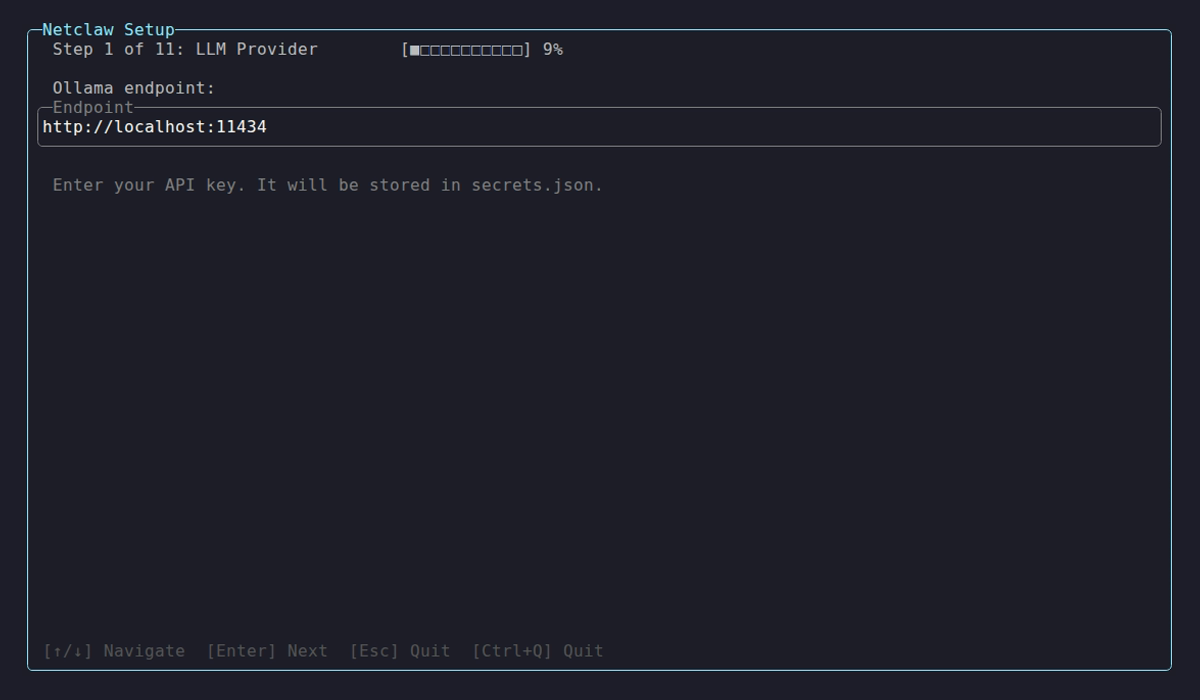
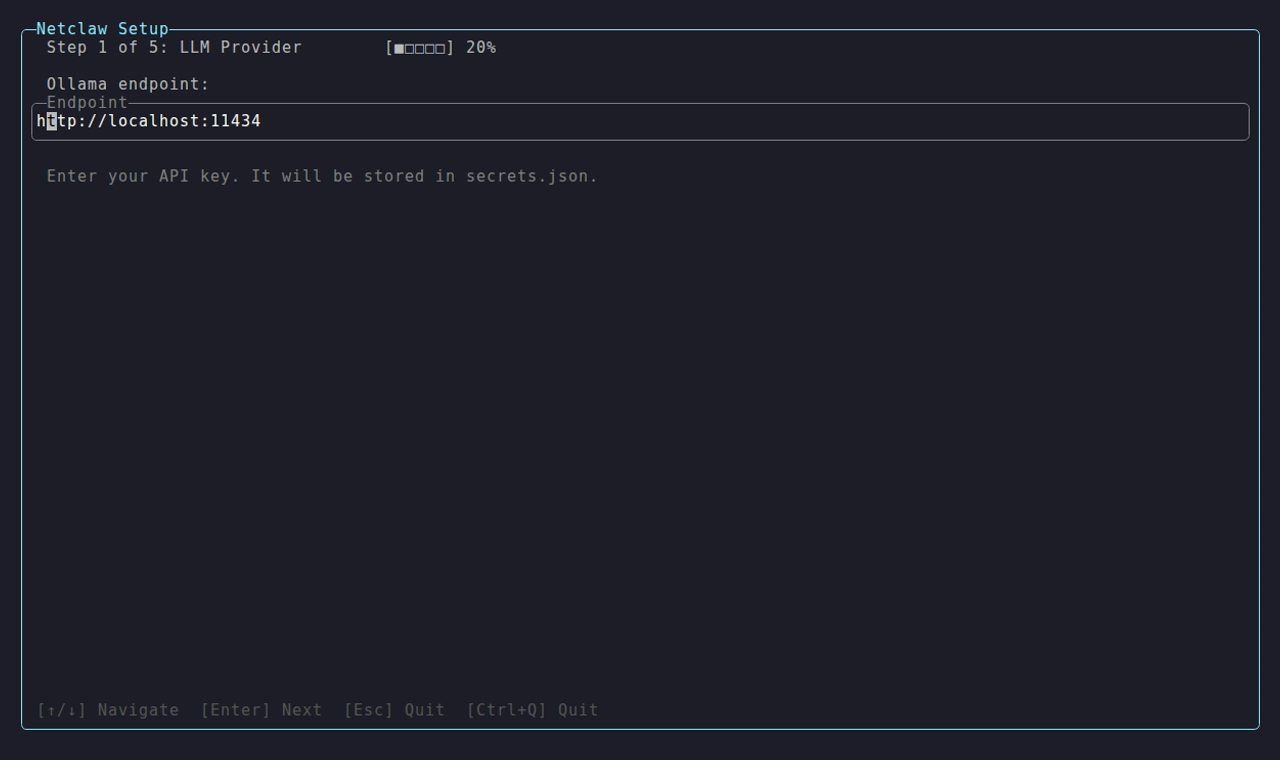
docs: capture netclaw 0.24.0 init + config screenshots
Re-capture the init wizard (5-step flow) and the netclaw config Settings Areas
dashboard against the released 0.24.0 binary in a throwaway Docker container,
replacing the stale 11-step captures. Wire the new shots into cli/init.md,
quickstart.md, and cli/config.md, and delete 26 obsolete init-* images.

Capturing against the real binary surfaced a doc fix: the provider list ships
seven entries (Anthropic, GitHub Copilot, Ollama, OpenAI, llama.cpp / vLLM,
OpenRouter, Venice.ai), not the six the dev-branch source listed.

Changed region(s): [[0.0, 0.03, 0.9867, 0.96]]

diff --git a/src/content/docs/cli/init.md b/src/content/docs/cli/init.md
@@ -28,11 +28,9 @@ Pick an LLM provider, enter credentials, and select a default model.
 
 ![Provider selection list](/screenshots/output/init-01-provider-list.png)
 
-Providers are listed alphabetically: `anthropic`, `github-copilot`, `ollama`, `openai`, `openai-compatible`, `openrouter`. Self-hosted providers (Ollama, openai-compatible) prompt for an endpoint URL next.
+Providers are listed alphabetically: Anthropic, GitHub Copilot, Ollama, OpenAI, llama.cpp / vLLM, OpenRouter, and Venice.ai. Self-hosted backends (Ollama, llama.cpp / vLLM) prompt for an endpoint URL next.
 
 ![Endpoint configuration](/screenshots/output/init-01-endpoint.png)
-
-![Ollama provider configuration](/screenshots/output/init-01-provider-ollama.png)
 
 After credentials pass a connectivity check, you pick a default model from the discovered list.
 
@@ -51,7 +49,7 @@ Four substeps in order: **agent name → communication style → your name → t
 | Your name | `Your name:` | Optional — used to personalize responses |
 | Timezone | `Your timezone:` | Defaults to local system timezone |
 
-<!-- TODO(screenshots): init-identity-agent-name.png — capture after release; epic #55 -->
+![Identity step — communication style](/screenshots/output/init-02-identity.png)
 
 :::note
 Webhook URLs and workspace directories are **not** collected here — they're post-install settings in `netclaw config`.
@@ -84,17 +82,15 @@ Six toggles that control what's available across all audiences:
 
 Space to toggle, Enter to continue. Personal posture skips this step entirely — all features are on by default.
 
-<!-- TODO(screenshots): init-enabled-features.png — capture after release; epic #55 -->
+![Feature selection on Team posture](/screenshots/output/init-04-enabled-features.png)
 
 ### Step 5 — Health Check
 
 Press Enter to run the health checks. The wizard validates config files, tests provider connectivity, and starts the daemon.
 
-![Health check running](/screenshots/output/init-10-health-check.png)
+![Health check running](/screenshots/output/init-05-health-check.png)
 
 On a clean pass — all probes green — the wizard writes config and launches `netclaw chat` automatically. No extra confirmation needed.
-
-![Health check complete](/screenshots/output/init-10-health-check-complete.png)
 
 If any check fails, the wizard stays on the summary screen and shows:
 

diff --git a/src/content/docs/getting-started/quickstart.md b/src/content/docs/getting-started/quickstart.md
@@ -23,8 +23,9 @@ The wizard covers four steps for Personal posture (five for Team/Public — more
 
 ### Pick a provider
 
-<!-- TODO(screenshots): init-step1-provider-endpoint.png — capture after release; epic #55 -->
-<!-- TODO(screenshots): init-step1-provider-model.png — capture after release; epic #55 -->
+![Provider selection](/screenshots/output/init-01-provider-list.png)
+
+![Model selection](/screenshots/output/init-01-model-select.png)
 
 Choose an LLM provider and enter credentials. Self-hosted providers like Ollama need an endpoint URL. Once credentials pass a connectivity check, you pick a default model.
 
@@ -32,14 +33,13 @@ Use [`netclaw provider`](/cli/provider/) to add more providers later.
 
 ### Set your identity
 
-<!-- TODO(screenshots): init-step7-your-name.png — capture after release; epic #55 -->
-<!-- TODO(screenshots): init-step7-communication-style.png — capture after release; epic #55 -->
+![Identity step](/screenshots/output/init-02-identity.png)
 
 Four substeps in order: agent name → communication style → your name → timezone. All four fields pre-fill when you re-run `netclaw init` on an existing install.
 
 ### Set your security posture
 
-<!-- TODO(screenshots): init-step2-security-posture.png — capture after release; epic #55 -->
+![Security posture selection](/screenshots/output/init-02-security-posture.png)
 
 Pick how much you trust the environment. **Personal** is single-user with full tool access. **Team** and **Public** are progressively more restrictive. See [Security Model](/security/security-model/) for details.
 
@@ -49,7 +49,7 @@ If you chose Team or Public posture, the wizard adds a step to select which feat
 
 ### Health check
 
-<!-- TODO(screenshots): init-step10-healthcheck.png — capture after release; epic #55 -->
+![Health check](/screenshots/output/init-05-health-check.png)
 
 The wizard validates provider connectivity, writes config, and starts the daemon. When all checks pass, netclaw launches chat automatically — you land in the chat TUI without running anything else.
 

diff --git a/src/content/docs/cli/config.md b/src/content/docs/cli/config.md
@@ -13,7 +13,7 @@ If netclaw hasn't been initialized yet, `netclaw config` exits non-zero and tell
 
 It opens a **Settings Areas** menu with a live status summary for each area, so you can see the state of every domain at a glance.
 
-<!-- TODO(screenshots): add config-dashboard.png — capture via screenshots/tapes/config.tape after the stable release with netclaw-dev/netclaw#1368; tracked in epic #55 -->
+![Settings Areas dashboard](/screenshots/output/config-dashboard.png)
 
 ## Dashboard areas
 
